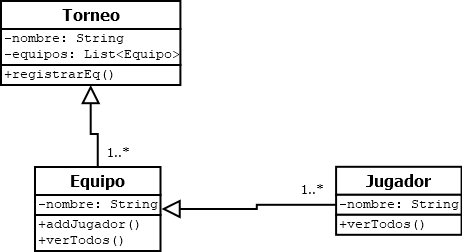
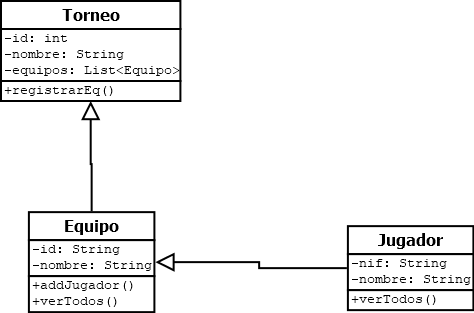
UPLOAD: clases.png correcto

Changed region(s): [[0.0, 0.0, 1.0, 1.0], [0.6364, 0.7222, 0.697, 0.7778]]

diff --git a/README.md b/README.md
@@ -50,7 +50,14 @@ El administrador tiene completo control del sistema, pudiendo realizar las tarea
 Al añadir un equipo obliga (include) a registrar jugadores dentro del equipo. Sin embargo, la consultar el listado de equipos no es obligatorio la consulta de jugadores (extends).
 
 ### Diagrama de clases
+El diseño se ha basado en los principios de encapsulamiento, modularidad y relaciones naturales entre las entidades que intervienen en el sistema.
 
+En el caso de torneo, se configura como la relación principal. Contiene una lista de objetos Equipo y el método registrarEquipo. Se identifica a través de un id único.
+
+La entidad equipo está compuesta por el nombre del equipo y un identificador único. Los métodos son para añadir jugadores al equipo y ver todos los equipos que existen en la entidad.
+
+Por último, la entidad jugadores representa a cada participante del torneo con su nombre y su número de nif para ser identificados correctamente.
 
 
 ## Conclusiones
+Mediante el diseño y desarrollo de proyectos a través del diagrama de clases y casos de uso se pretende representar la estructura y funcionamiento de un sistema. Nos ayuda a planificar la programación del software y a priorizar sus funcionalidades mientras identificamos las interacciones que los usuarios tendrán con este sistema.
